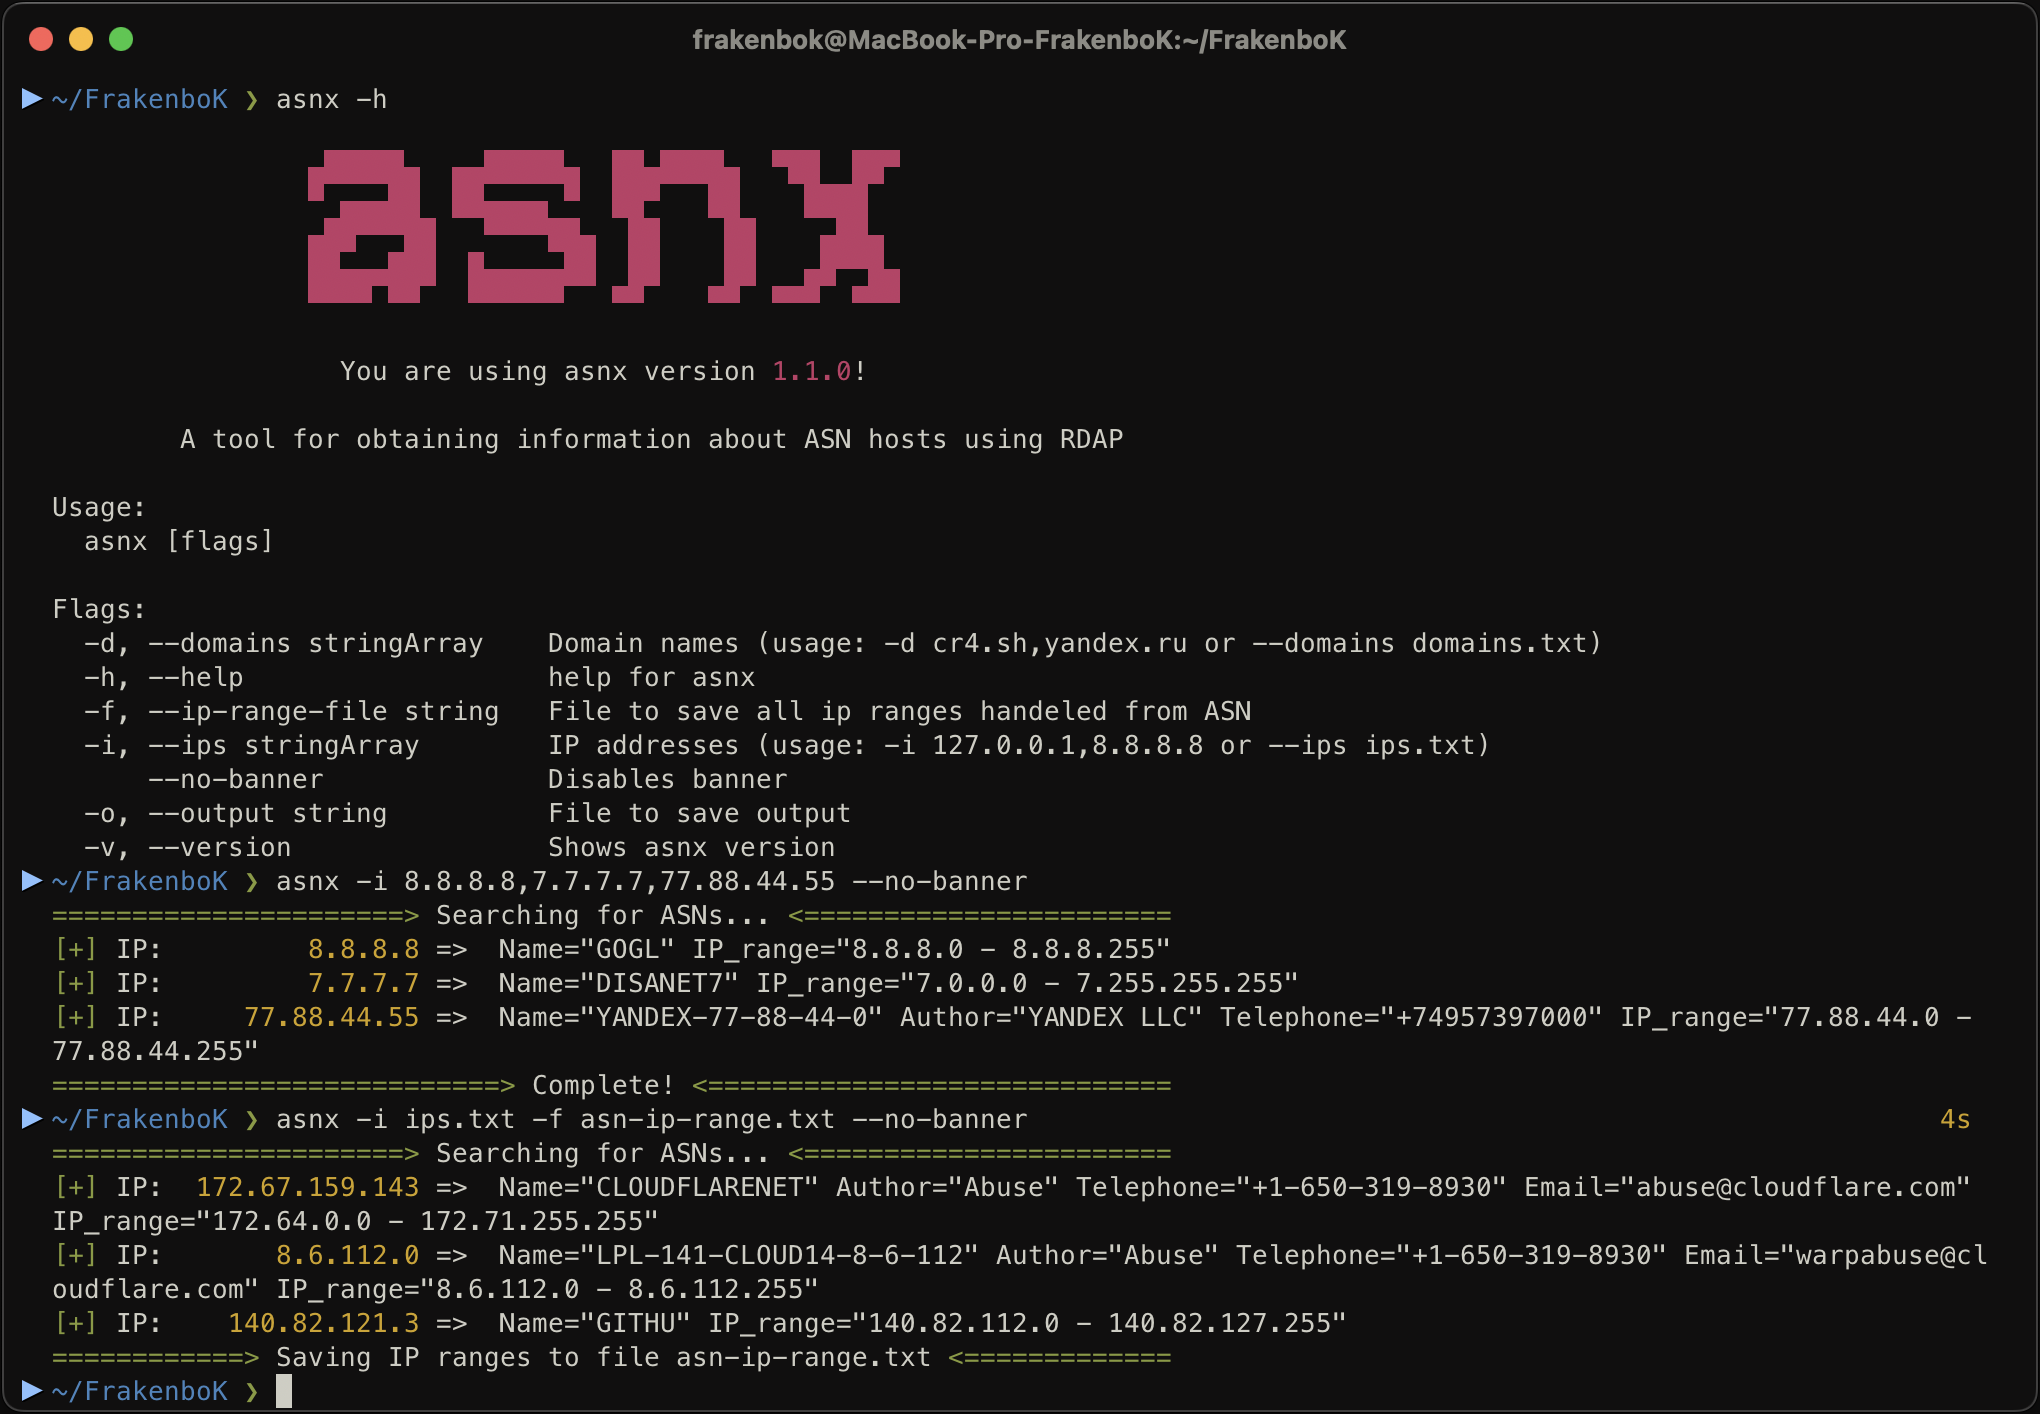
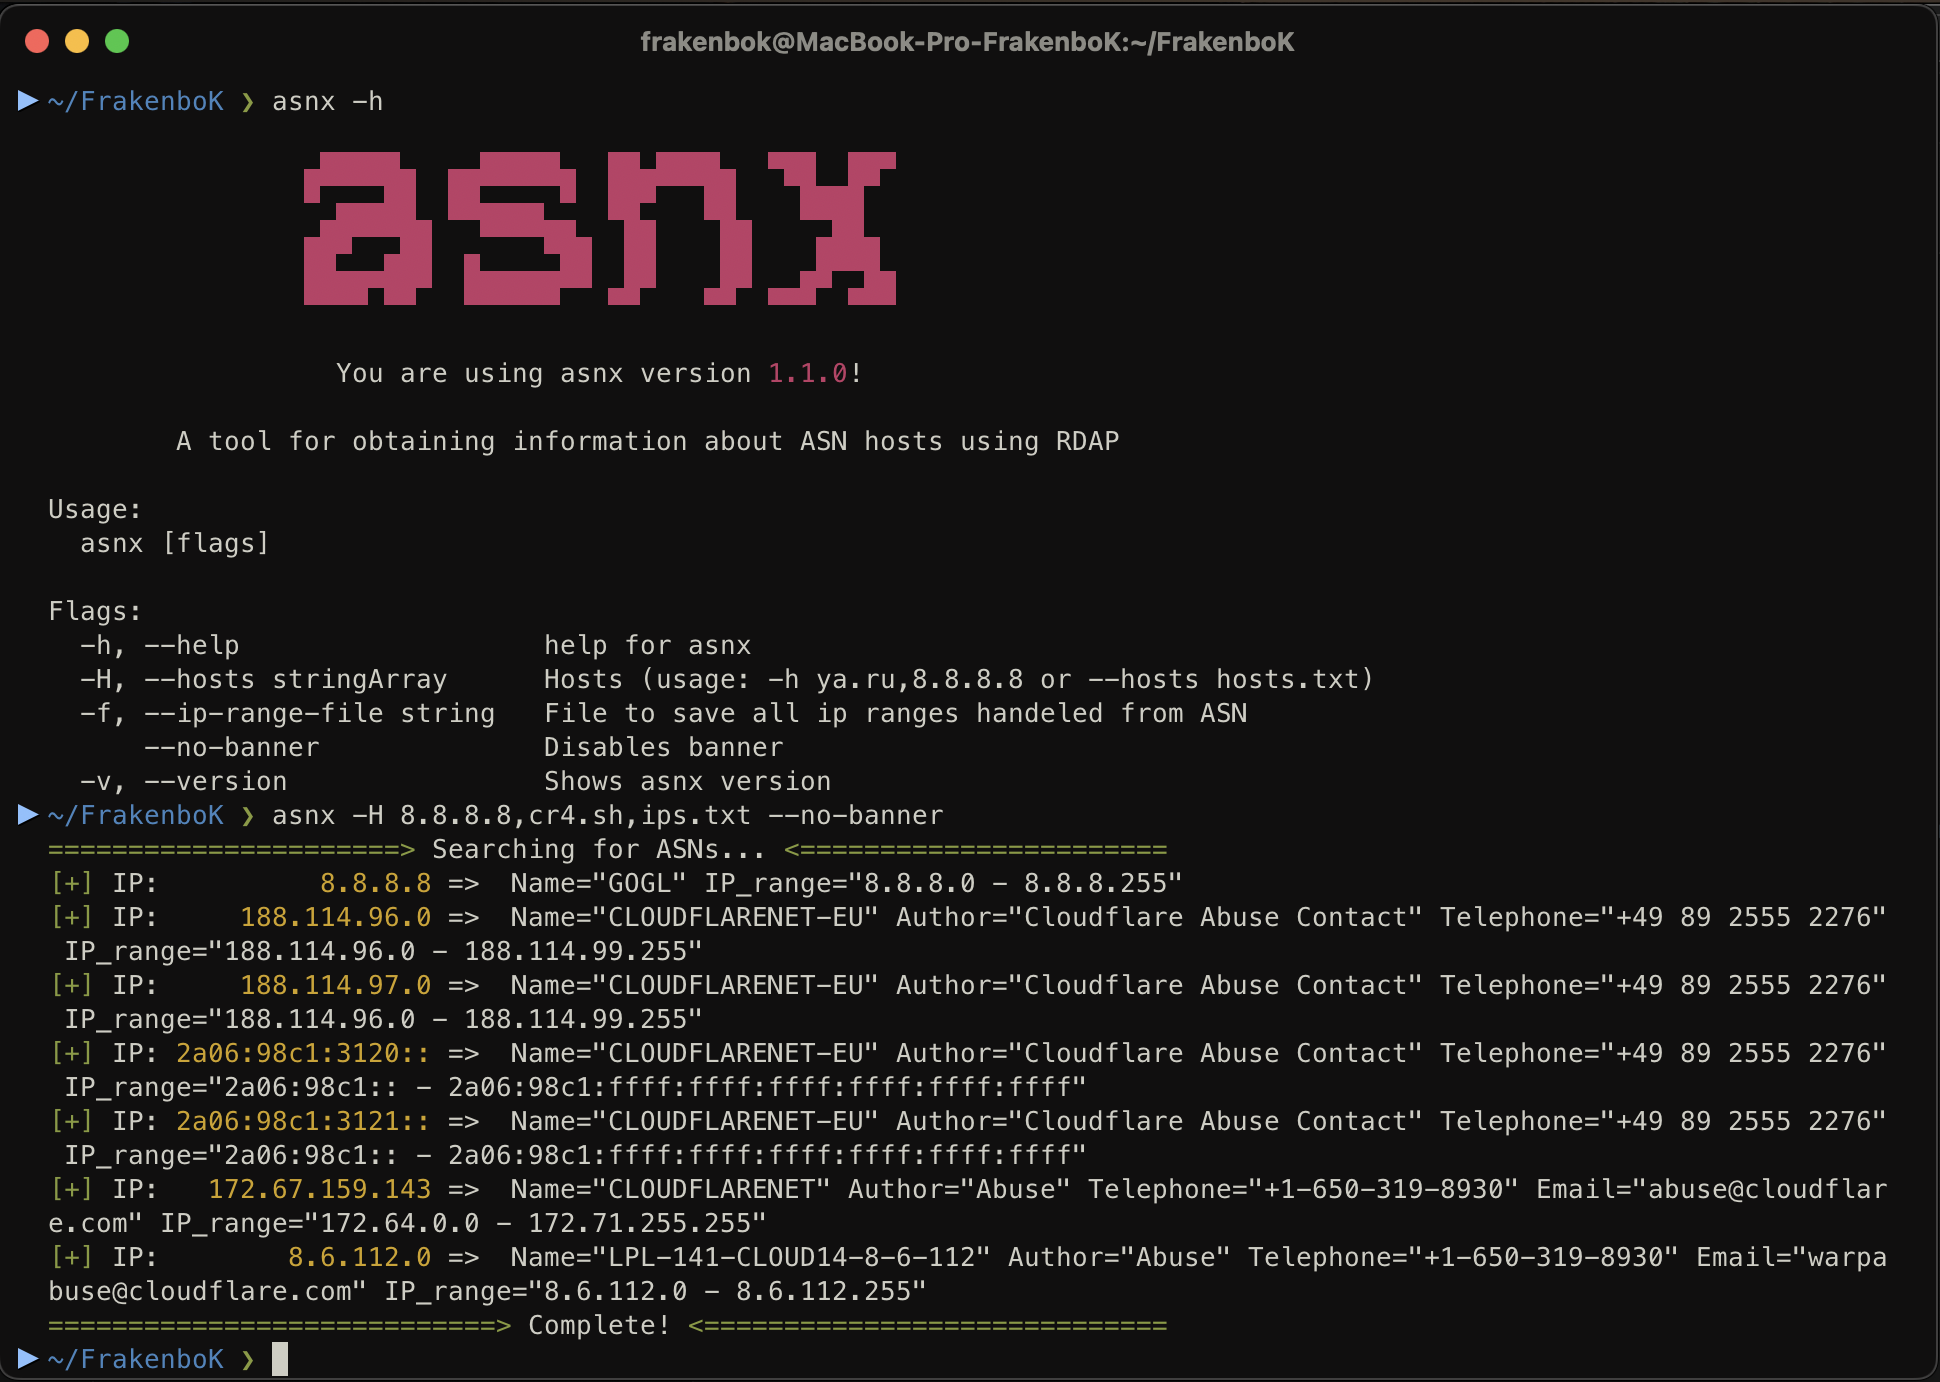
Update README.md

diff --git a/cmd/root.go b/cmd/root.go
@@ -25,7 +25,9 @@ func NewRootCmd() *cobra.Command {
 	cmd.Flags().StringArrayVarP(&opts.Hosts, "hosts", "H", []string{}, "Hosts (usage: -h ya.ru,8.8.8.8 or --hosts hosts.txt)")
 
 	cmd.Flags().StringVarP(&opts.IPRangeFile, "ip-range-file", "f", "", "File to save all ip ranges handeled from ASN")
-	cmd.Flags().StringVarP(&opts.OutputFile, "output", "o", "", "[IN DEVELOPMENT] File to save output")
+
+	// TODO:
+	// cmd.Flags().StringVarP(&opts.OutputFile, "output", "o", "", "[IN DEVELOPMENT] File to save output")
 
 	// Search by Domain
 	cmd.Flags().BoolVarP(&opts.Version, "version", "v", false, "Shows asnx version")

diff --git a/README.md b/README.md
@@ -41,7 +41,6 @@ Flags:
   -h, --help                   help for asnx
   -f, --ip-range-file string   File to save all ip ranges handeled from ASN
       --no-banner              Disables banner
-  -o, --output string          File to save output
   -v, --version                Shows asnx version
 ```
 
